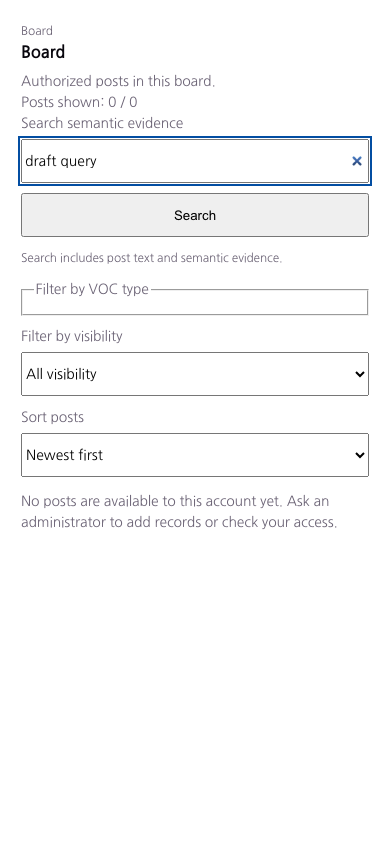
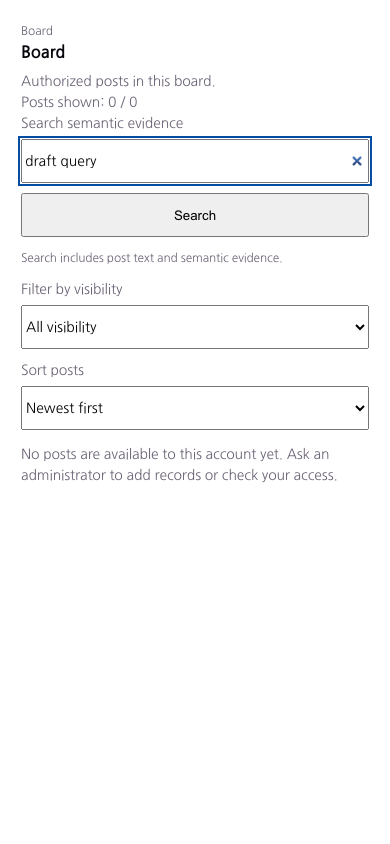
fix(board): hide empty Voice filter until options exist

Changed region(s): [[0.0308, 0.3389, 0.8615, 0.6469], [0.9231, 0.3389, 0.9538, 0.5545]]

diff --git a/frontend/src/App.tsx b/frontend/src/App.tsx
@@ -4527,25 +4527,27 @@ export function PostList({
             </label>
             <button type="submit">{t("Search")}</button>
             <p className="board-search-help post-meta">{t("Search includes post text and semantic evidence.")}</p>
-            <fieldset className="board-voc-type-filter">
-              <legend>{t("Filter by VOC type")}</legend>
-              {vocTypeOptions.map((option) => (
-                <label key={option.code}>
-                  <input
-                    type="checkbox"
-                    checked={typeFilter.includes(option.code)}
-                    onChange={(event) =>
-                      setTypeFilter((current) =>
-                        event.target.checked
-                          ? [...current, option.code]
-                          : current.filter((code) => code !== option.code),
-                      )
-                    }
-                  />
-                  {t(option.label)}
-                </label>
-              ))}
-            </fieldset>
+            {vocTypeOptions.length > 0 ? (
+              <fieldset className="board-voc-type-filter">
+                <legend>{t("Filter by VOC type")}</legend>
+                {vocTypeOptions.map((option) => (
+                  <label key={option.code}>
+                    <input
+                      type="checkbox"
+                      checked={typeFilter.includes(option.code)}
+                      onChange={(event) =>
+                        setTypeFilter((current) =>
+                          event.target.checked
+                            ? [...current, option.code]
+                            : current.filter((code) => code !== option.code),
+                        )
+                      }
+                    />
+                    {t(option.label)}
+                  </label>
+                ))}
+              </fieldset>
+            ) : null}
             <label>
               {t("Filter by visibility")}
               <select

diff --git a/frontend/src/App.test.tsx b/frontend/src/App.test.tsx
@@ -2746,6 +2746,7 @@ describe("App, authenticated", () => {
       "Ask an administrator to add records or check your access.",
     );
     expect(within(board).getByRole("search", { name: "Search and filter posts" })).toBeInTheDocument();
+    expect(within(board).queryByRole("group", { name: "Filter by VOC type" })).not.toBeInTheDocument();
     expect(within(board).queryByText(/make seed/)).not.toBeInTheDocument();
     await userEvent.type(within(board).getByRole("searchbox", { name: "Search semantic evidence" }), "draft query");
     expect(within(board).getByRole("status")).toHaveTextContent(

diff --git a/frontend/src/components/PostList.stories.tsx b/frontend/src/components/PostList.stories.tsx
@@ -103,6 +103,7 @@ export const EmptyBoard: Story = {
       "Ask an administrator to add records or check your access.",
     );
     await expect(canvas.getByRole("search", { name: "Search and filter posts" })).toBeInTheDocument();
+    await expect(canvas.queryByRole("group", { name: "Filter by VOC type" })).not.toBeInTheDocument();
     await userEvent.type(canvas.getByRole("searchbox", { name: "Search semantic evidence" }), "draft query");
     await expect(canvas.getByRole("status")).toHaveTextContent(
       "Ask an administrator to add records or check your access.",

diff --git a/docs/product-technical-gap-baseline.md b/docs/product-technical-gap-baseline.md
@@ -32,6 +32,13 @@ this pass, 51 focused synthetic ontology, Voice, and documentation tests and
 This candidate result does not prove an authenticated browser or PostgreSQL
 journey on protected `main`.
 
+The same empty-Board repair now omits its empty Voice filter fieldset when
+there is no authorized option. A focused regression and the existing populated
+Board test protect both states. Frontend lint, production build, and Storybook
+build passed; the production application chunk warning remains. New synthetic
+Storybook captures at 1440×900 and 390×844 were inspected and show the next
+action and search controls without an inert filter or horizontal clipping.
+
 The canonical `lineageweave` Compose services are running, but the PostgreSQL
 service reports unhealthy and an authenticated connection encountered a storage
 I/O error. The three existing authenticated synthetic Voice API checks therefore
